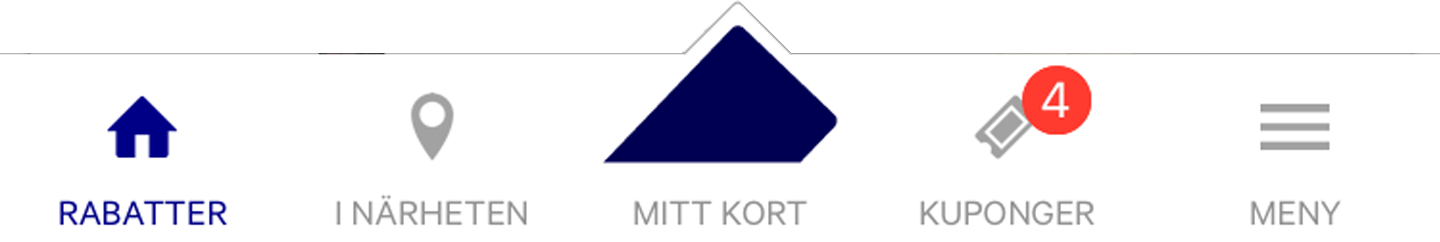
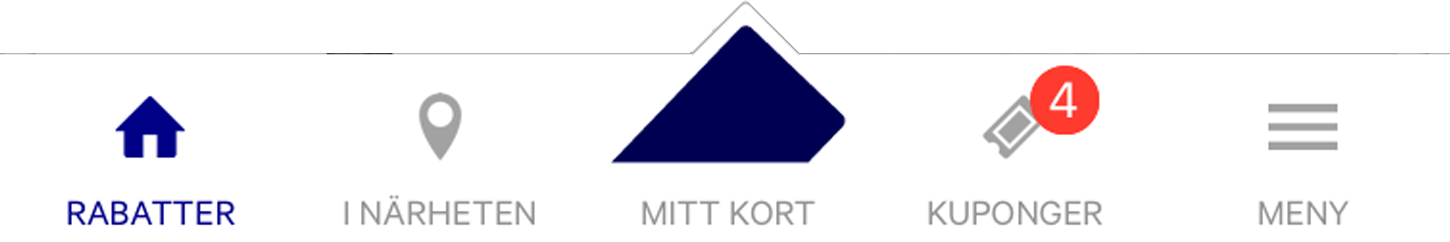
Add files via upload

diff --git a/m/index2.html b/m/index2.html
@@ -60,8 +60,8 @@ animation:clouds_anim 600s linear infinite;
       <label>
         <input type="checkbox"  />
         <div class="card">
-            <div class="front"><img src="images/front.png" alt="Paris" style="width:900px;height:1480px"></div>
-            <div class="back"><img src="images/back.png" alt="Paris" style="width:900px;height:1480px"></div>
+            <div class="front"><img src="images/front.png" alt="Paris" style="width:950px;height:1480px"></div>
+            <div class="back"><img src="images/back.png" alt="Paris" style="width:950px;height:1480px"></div>
         </div>
     </label>
       <script src='http://cdnjs.cloudflare.com/ajax/libs/jquery/2.1.3/jquery.min.js'></script>

diff --git a/m/style.css b/m/style.css
@@ -30,7 +30,7 @@ bottom:  -20px; /* Position the navbar at the top of the page */
   position: fixed; /* Set the navbar to fixed position */
 width: 100%; /* Full width */
 height: auto;
-left: 4px;
+left: 0px;
 }
 
 
